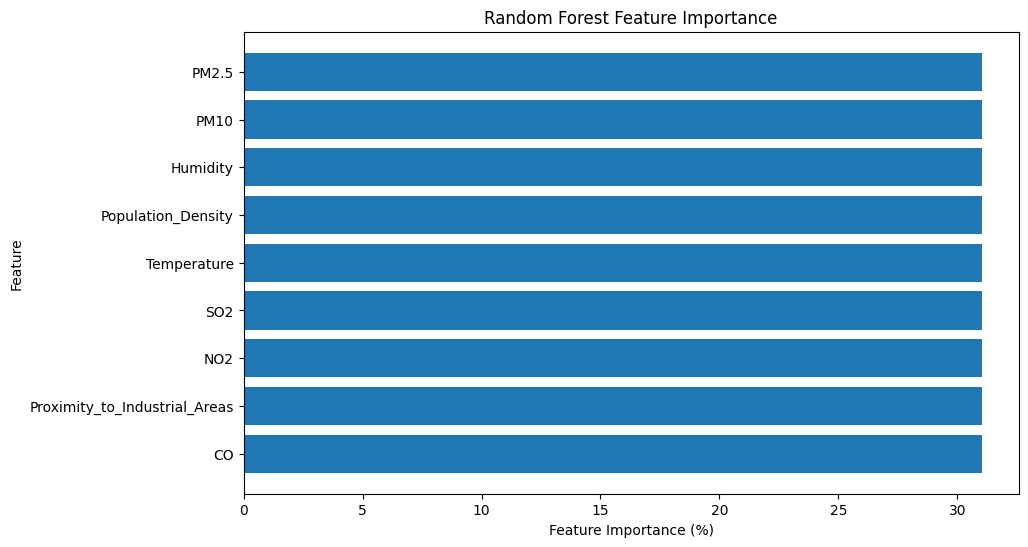
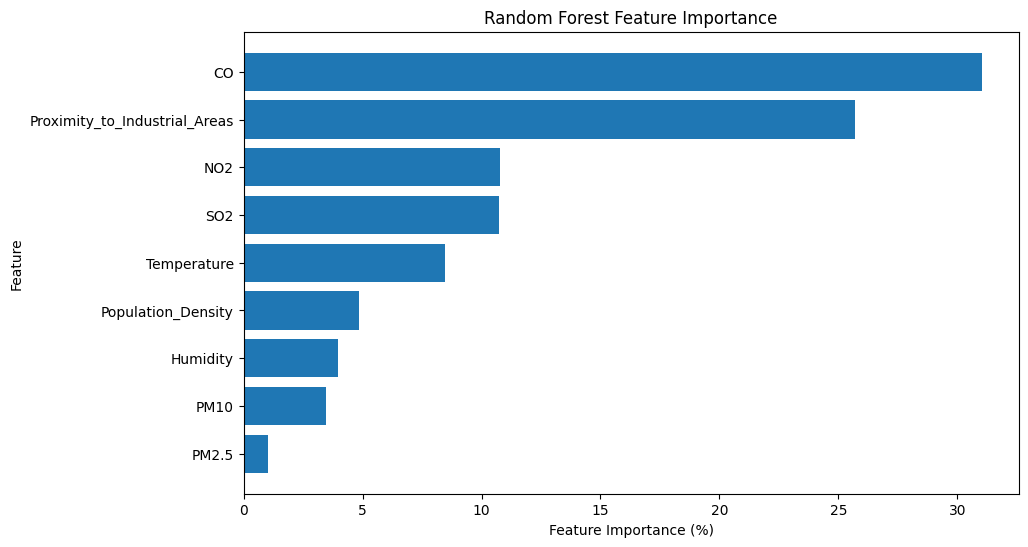
Performed XAI for RF and XGBoost

diff --git a/XAI/XGBoost_Importance.py b/XAI/XGBoost_Importance.py
@@ -1,5 +1,5 @@
 import pandas as pd
-import XGBoost as xgb
+import xgboost as xgb
 from sklearn.model_selection import train_test_split
 from sklearn.inspection import permutation_importance
 import matplotlib.pyplot as plt
@@ -22,25 +22,25 @@ X_train, X_test, y_train, y_test = train_test_split(
     data[inputs], data[target], test_size=0.2, random_state=42)
 
 # Initialize random forest classifier with best parameters
-xgb = XGBClassifier(n_estimators=700,
-                    min_child_weight=5,
-                    max_depth=3,
-                    learning_rate=0.03,
-                    gamma=1.25,
-                    objective='multi:softmax'
-                    random_state=42)
+xgb = xgb.XGBClassifier(n_estimators=700,
+                        min_child_weight=5,
+                        max_depth=3,
+                        learning_rate=0.03,
+                        gamma=1.25,
+                        objective='multi:softmax',
+                        importance_type="gain",
+                        random_state=42)
 
 xgb.fit(X_train, y_train.values.ravel())
 
 # create dataframe of features
 xgb_importance = pd.DataFrame(index=X_train.columns, data=xgb.feature_importances_, columns=["Importance"])
-xgb_importance.sort_values(by="Importance", ascending=False, inplace=True)
+xgb_importance.sort_values(by="Importance", ascending=True, inplace=True)
 print(xgb_importance)
-print(xgb_importance.index)
-print(xgb_importance.values)
+
 # Plot feature importances
 plt.figure(figsize=(10, 6))
-plt.barh(xgb_importance.index, xgb_importance.values[0]*100)
+plt.barh(xgb_importance.index, xgb_importance['Importance']*100)
 plt.xlabel('Feature Importance (%)')
 plt.ylabel('Feature')
 plt.title('XGBoost Feature Importance')
@@ -52,15 +52,53 @@ r = permutation_importance(xgb, X_test, y_test,
                            random_state=0)
 
 # test permutation importance
-xgb_permutation_df = pd.DataFrame(index=X_train.columns,  columns=["Mean", "Standard Deviation"])
-xgb_permutation_df["Mean"]=r["importances_mean"]
-xgb_permutation_df["Standard Deviation"] = r["importances_std"]
-xgb_permutation_df.sort_values(by="Mean", ascending=False, inplace=True)
-xgb_permutation_df
+xgb_permutation = pd.DataFrame(index=X_train.columns,  columns=["Mean", "Standard Deviation"])
+xgb_permutation["Mean"]=r["importances_mean"]
+xgb_permutation["Standard Deviation"] = r["importances_std"]
+xgb_permutation.sort_values(by="Mean", ascending=True, inplace=True)
+print(xgb_permutation)
 
-# Run shap for random forest
+# Plot Permutation importances
+plt.figure(figsize=(10, 6))
+#plt.axvline(0,c='black')
+plt.barh(xgb_permutation.index, xgb_permutation['Mean']*100)
+plt.xlabel('Permutation Importance (%)')
+plt.ylabel('Feature')
+plt.title('XGBoost Permutation Importance')
+plt.savefig('images/XGBoost_PermutationImportance.png',bbox_inches='tight')
+plt.close()
+
+########
+# SHAP #
+########
+
+# Run shap for XGBoost
 explainer = shap.TreeExplainer(xgb)
 explanation = explainer(X_test)
-shap.plots.beeswarm(explanation, max_display=20)
-plt.savefig('images/XGBoost_Shap_Beeswarm.png')
+
+# Plot good shap values
+shap.plots.beeswarm(explanation[:,:,0], max_display=20, show=False)
+plt.title('XGBoost Shap for Good Air Quality')
+plt.savefig('images/XGBoost_Shap_Beeswarm_GoodAQ.png',bbox_inches='tight')
+plt.close()
+
+# Plot moderate shap values
+explanation = explainer(X_test)
+shap.plots.beeswarm(explanation[:,:,1], max_display=20, show=False)
+plt.title('XGBoost Shap for Moderate Air Quality')
+plt.savefig('images/XGBoost_Shap_Beeswarm_ModerateAQ.png',bbox_inches='tight')
+plt.close()
+
+# plot poor shap values
+explanation = explainer(X_test)
+shap.plots.beeswarm(explanation[:,:,2], max_display=20, show=False)
+plt.title('XGBoost Shap for Poor Air Quality')
+plt.savefig('images/XGBoost_Shap_Beeswarm_PoorAQ.png',bbox_inches='tight')
+plt.close()
+
+# plot hazardous shap values
+explanation = explainer(X_test)
+shap.plots.beeswarm(explanation[:,:,3], max_display=20, show=False)
+plt.title('XGBoost Shap for Hazardous Air Quality')
+plt.savefig('images/XGBoost_Shap_Beeswarm_HazardousAQ.png',bbox_inches='tight')
 plt.close()

diff --git a/XAI/RandomForest_Importance.py b/XAI/RandomForest_Importance.py
@@ -31,33 +31,68 @@ rf.fit(X_train, y_train.values.ravel())
 
 # create dataframe of features
 rf_importance = pd.DataFrame(index=X_train.columns, data=rf.feature_importances_, columns=["Importance"])
-rf_importance.sort_values(by="Importance", ascending=False, inplace=True)
+rf_importance.sort_values(by="Importance", ascending=True, inplace=True)
 print(rf_importance)
-print(rf_importance.index)
-print(rf_importance.values)
+
 # Plot feature importances
 plt.figure(figsize=(10, 6))
-plt.barh(rf_importance.index, rf_importance.values[0]*100)
+plt.barh(rf_importance.index, rf_importance['Importance']*100)
 plt.xlabel('Feature Importance (%)')
 plt.ylabel('Feature')
 plt.title('Random Forest Feature Importance')
 plt.savefig('images/RandomForest_FeatureImportance.png',bbox_inches='tight')
 plt.close()
 
+# Compute permutation importance
 r = permutation_importance(rf, X_test, y_test,
                            n_repeats=30,
                            random_state=0)
 
 # test permutation importance
-forest_permutation_df = pd.DataFrame(index=X_train.columns,  columns=["Mean", "Standard Deviation"])
-forest_permutation_df["Mean"]=r["importances_mean"]
-forest_permutation_df["Standard Deviation"] = r["importances_std"]
-forest_permutation_df.sort_values(by="Mean", ascending=False, inplace=True)
-forest_permutation_df
+rf_permutation = pd.DataFrame(index=X_train.columns,  columns=["Mean", "Standard Deviation"])
+rf_permutation["Mean"]=r["importances_mean"]
+rf_permutation["Standard Deviation"] = r["importances_std"]
+rf_permutation.sort_values(by="Mean", ascending=True, inplace=True)
+print(rf_permutation)
+
+# Plot Permutation importances
+plt.figure(figsize=(10, 6))
+plt.axvline(0,c='black')
+plt.barh(rf_permutation.index, rf_permutation['Mean']*100)
+plt.xlabel('Permutation Importance (%)')
+plt.ylabel('Feature')
+plt.title('Random Forest Permutation Importance')
+plt.savefig('images/RandomForest_PermutationImportance.png',bbox_inches='tight')
+plt.close()
+
+########
+# SHAP #
+########
 
 # Run shap for random forest
 explainer = shap.TreeExplainer(rf)
 explanation = explainer(X_test)
-shap.plots.beeswarm(explanation, max_display=20)
-plt.savefig('images/RandomForest_Shap_Beeswarm.png')
+
+# Plot good shap values
+shap.plots.beeswarm(explanation[:,:,0], max_display=20, show=False)
+plt.title('Random Forest Shap for Good Air Quality')
+plt.savefig('images/RandomForest_Shap_Beeswarm_GoodAQ.png',bbox_inches='tight')
+plt.close()
+
+# Plot moderate shap values
+shap.plots.beeswarm(explanation[:,:,1], max_display=20, show=False)
+plt.title('Random Forest Shap for Moderate Air Quality')
+plt.savefig('images/RandomForest_Shap_Beeswarm_ModerateAQ.png',bbox_inches='tight')
+plt.close()
+
+# Plot poor shap values
+shap.plots.beeswarm(explanation[:,:,2], max_display=20, show=False)
+plt.title('Random Forest Shap for Poor Air Quality')
+plt.savefig('images/RandomForest_Shap_Beeswarm_PoorAQ.png',bbox_inches='tight')
+plt.close()
+
+# Plot hazardous shap values
+shap.plots.beeswarm(explanation[:,:,3], max_display=20, show=False)
+plt.title('Random Forest Shap for Hazardous Air Quality')
+plt.savefig('images/RandomForest_Shap_Beeswarm_HazardousAQ.png',bbox_inches='tight')
 plt.close()

diff --git a/Classification/NeuralNetworkModel.py b/Classification/NeuralNetworkModel.py
@@ -15,6 +15,10 @@ class TorchDataset(Dataset):
 
 class NeuralNetwork(nn.Module):
     def __init__(self, n_inputs: int, n_outputs: int):
+        """
+        n_inputs (int): number of input features for the model.
+        n_outputs (int): number of output classes for the model.
+        """
         super(NeuralNetwork, self).__init__()
         self.fc1 = nn.Linear(n_inputs, 5)
         self.fc2 = nn.Linear(5, n_outputs)
